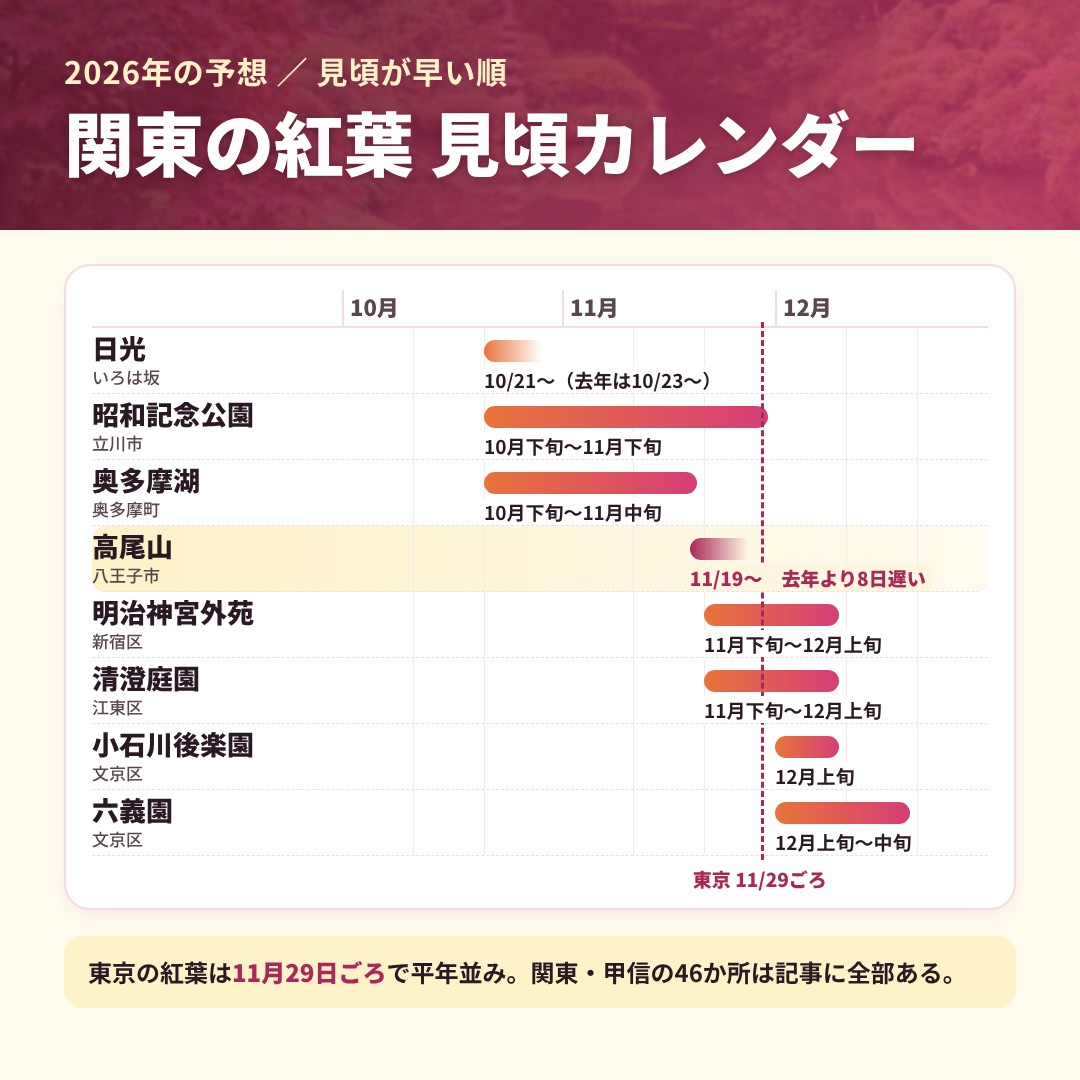
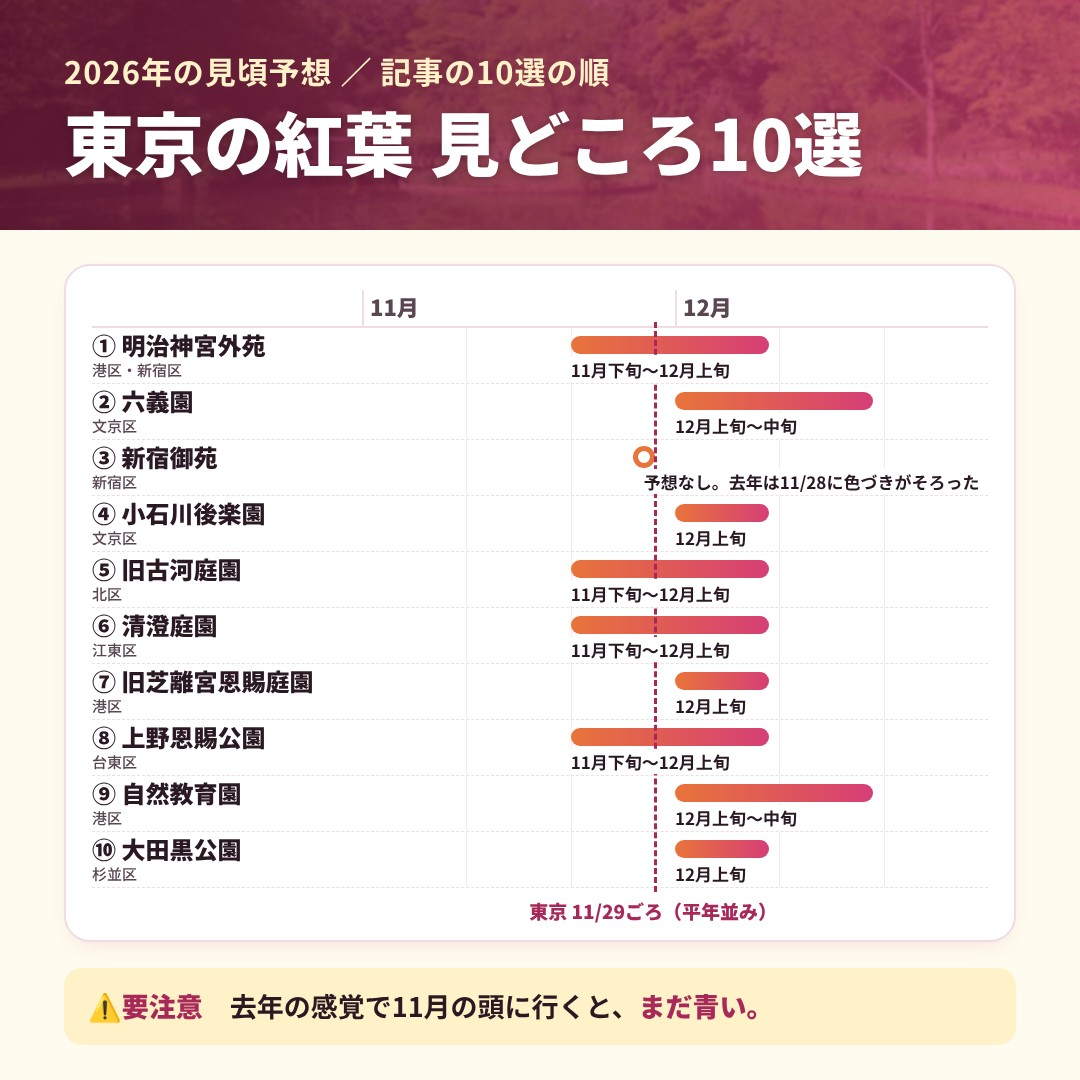
x: 紅葉の告知をコメントどおり修正（東京の見どころ10選カレンダー・六義園の画像を削除・日光は番外編・冒頭を差し替え）
Claude-Session: https://claude.ai/code/session_01H2JQqdMCeKNiMVUTrAyX2t

diff --git a/scripts/image-review/page.html b/scripts/image-review/page.html
@@ -375,12 +375,12 @@
       // **未投稿**（2026-10-11 に指示）。blog3 からの告知依頼（2026-10-04）。「1日おきレベルで投稿していく」。
       // 写真は Commons の CC0 / パブリックドメインだけ（記事の写真は CC BY / CC BY-SA なので使っていない）
       key: "momiji", title: "紅葉2026 関東・東京の見頃予想", slug: "momiji-2026-kanto",
-      attach: "[1/2]（4枚）",
+      attach: "[1/2]（3枚）",
       images: [
-        { file: "1-calendar.jpg",  name: "1枚目", cap: "見頃カレンダー（早い順）" },
+        // 2026-10-11 のコメントで直した: 1 枚目を東京の見どころ10選（記事の順位順）に／六義園の画像は削除／日光は番外編に
+        { file: "1-calendar.jpg",  name: "1枚目", cap: "東京の紅葉 見どころ10選（記事の順位順）" },
         { file: "2-takao.jpg",     name: "2枚目", cap: "高尾山は去年より8日遅い" },
-        { file: "3-rikugien.jpg",  name: "3枚目", cap: "六義園の夜間特別観賞" },
-        { file: "4-nikko.jpg",     name: "4枚目", cap: "日光がいちばん早い組" }
+        { file: "4-nikko.jpg",     name: "3枚目", cap: "番外編：日光なら10月から見頃" }
       ]
     },
     {

diff --git a/.claude/skills/x-post-images/SKILL.md b/.claude/skills/x-post-images/SKILL.md
@@ -326,6 +326,7 @@ cat public/images/<slug>/photos/_manifest.json
 | 2026-10-06 | **へんなスペースがあるので、上下の3つのオブジェクトの縦幅をうまく調整して変なスペースを作らないようにして**（2・3・4 枚目） | 右の 3 つの箱を `justify-content: space-between` で並べていたので、**箱が中身の高さのまま上下に散って隙間ができていた。** 箱を `flex: 1` で縦いっぱいに伸ばし、間は 22px に固定、中身は上下中央にした。**並べる箱は隙間で散らさず、箱自体を伸ばす** |
 | 2026-10-08 | **カラーをファンズのカラーに合わせて画像を作って。いまのカラーリングは中途半端。すべての画像に適用して**（FUNDS 紹介） | ブログのプラム／黄の帯のまま、中の画面だけ Funds の青だったので、**2 つの配色が混ざって中途半端**に見えていた。**サービスを紹介する画像は、そのサービスの配色で組む。** 色は**公式の画面から実際の色を取った**（濃紺 #0F2554＝口座開設ボタン／空色 #6BCAF8→#A9E3FB＝見出しの地／コーラル #DE5F72＝2,000 の文字）。帯は濃紺、見出しの強調は空色、ラベルはコーラル、地は淡い空色。**推測で「それっぽい青」を置かない** |
 | 2026-10-08 | **上部の背景画像にテーマにあった画像を設定して、気にならないくらいに薄く透過した形で表示して**（FUNDS 紹介 1 枚目） | §1 の「帯に実写を薄く敷く」を、**記事が無い PR 投稿でも**使った。素材は funds.jp の見出し画像の街並み（公式の画面・出所の行は要らない）。元が小さく粗いので **不透明度 0.14 ＋ ぼかし 2px ＋ 左が濃いスクリム**で、文字の後ろで主張しないようにした |
+| 2026-10-11 | **紅葉の 1 枚目「関東というかほぼ東京なので、日光を除いて東京の見どころカレンダーに」「ブログは東京の紅葉を見どころ10選にしているので、同じく10選の順位順に並べて見頃を並べて」／六義園の画像は削除／日光は『番外編。10月中に行きたいなら日光』に** | **画像の切り口は記事の看板の切り口（10選・順位）に合わせる。** 自分で選び直した「早い順」をやめ、記事の ①〜⑩ をそのまま縦に並べた。今年の予想が無い新宿御苑は**棒を引かず点**にした（期間に見えると嘘になる）。**投稿の主題（東京）から外れる場所は『番外編』と名乗る** |
 <!-- 追記はこの表の下に。日付・指摘・反映 の 3 列を必ず埋める -->
 
 ## 7. 関連

diff --git a/docs/session-handoff.md b/docs/session-handoff.md
@@ -68,6 +68,12 @@
 
 <!-- 新しい記録がこの下に追加される（新しいものが上） -->
 
+### 2026-10-11 — 紅葉の告知をレビューページのコメント5件どおり修正（冒頭を差し替え・要注意を独立・1枚目を東京の見どころ10選カレンダーに・六義園画像を削除・日光を番外編に）。コメントは done にした
+
+次のアクション:
+
+- [ ] 利用者の再確認（下書きのまま）
+
 ### 2026-10-11 — x259 を Mac で適用・確認（17:06）。comment-orchestrator は同じ相手へ1日1回まで・直近7日に返した回数が少ない相手から選ぶ。money_yossy は今日2回済みではじかれることを実機で確認
 
 次のアクション:
